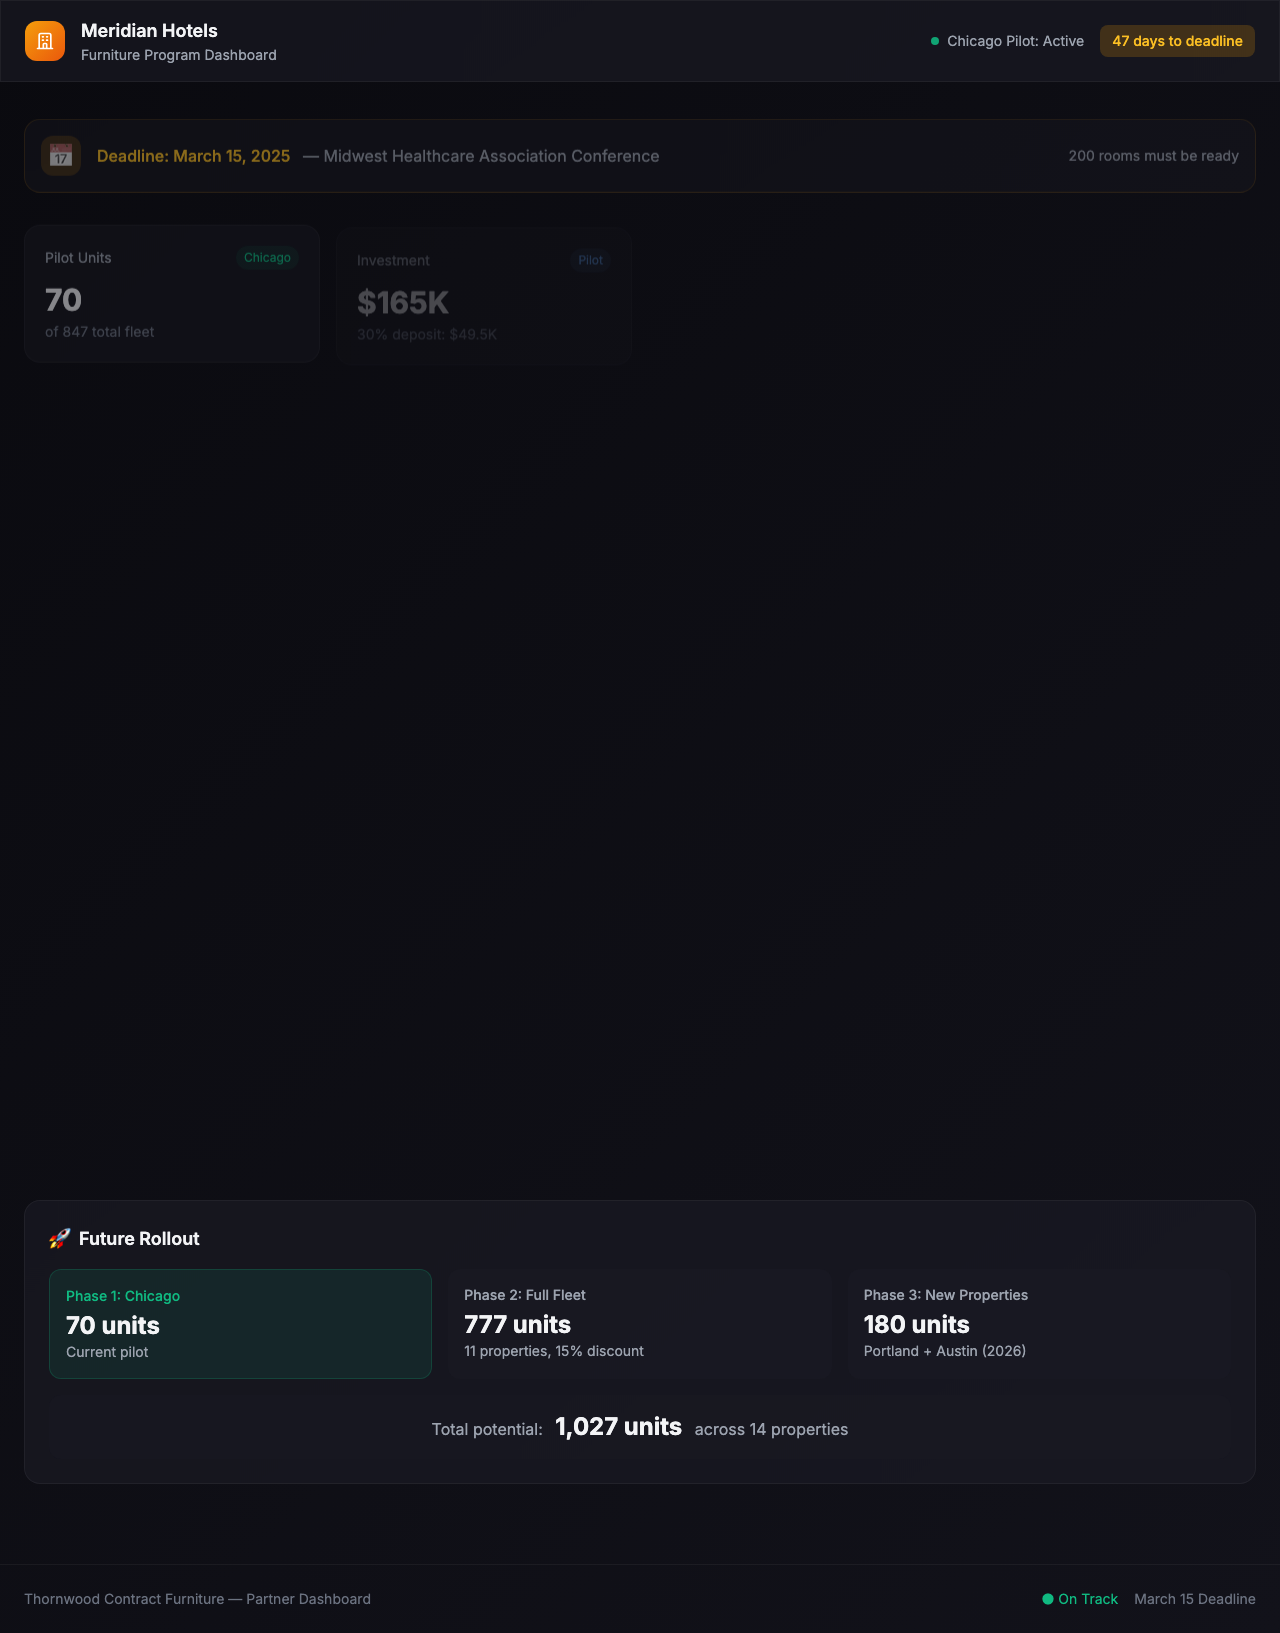
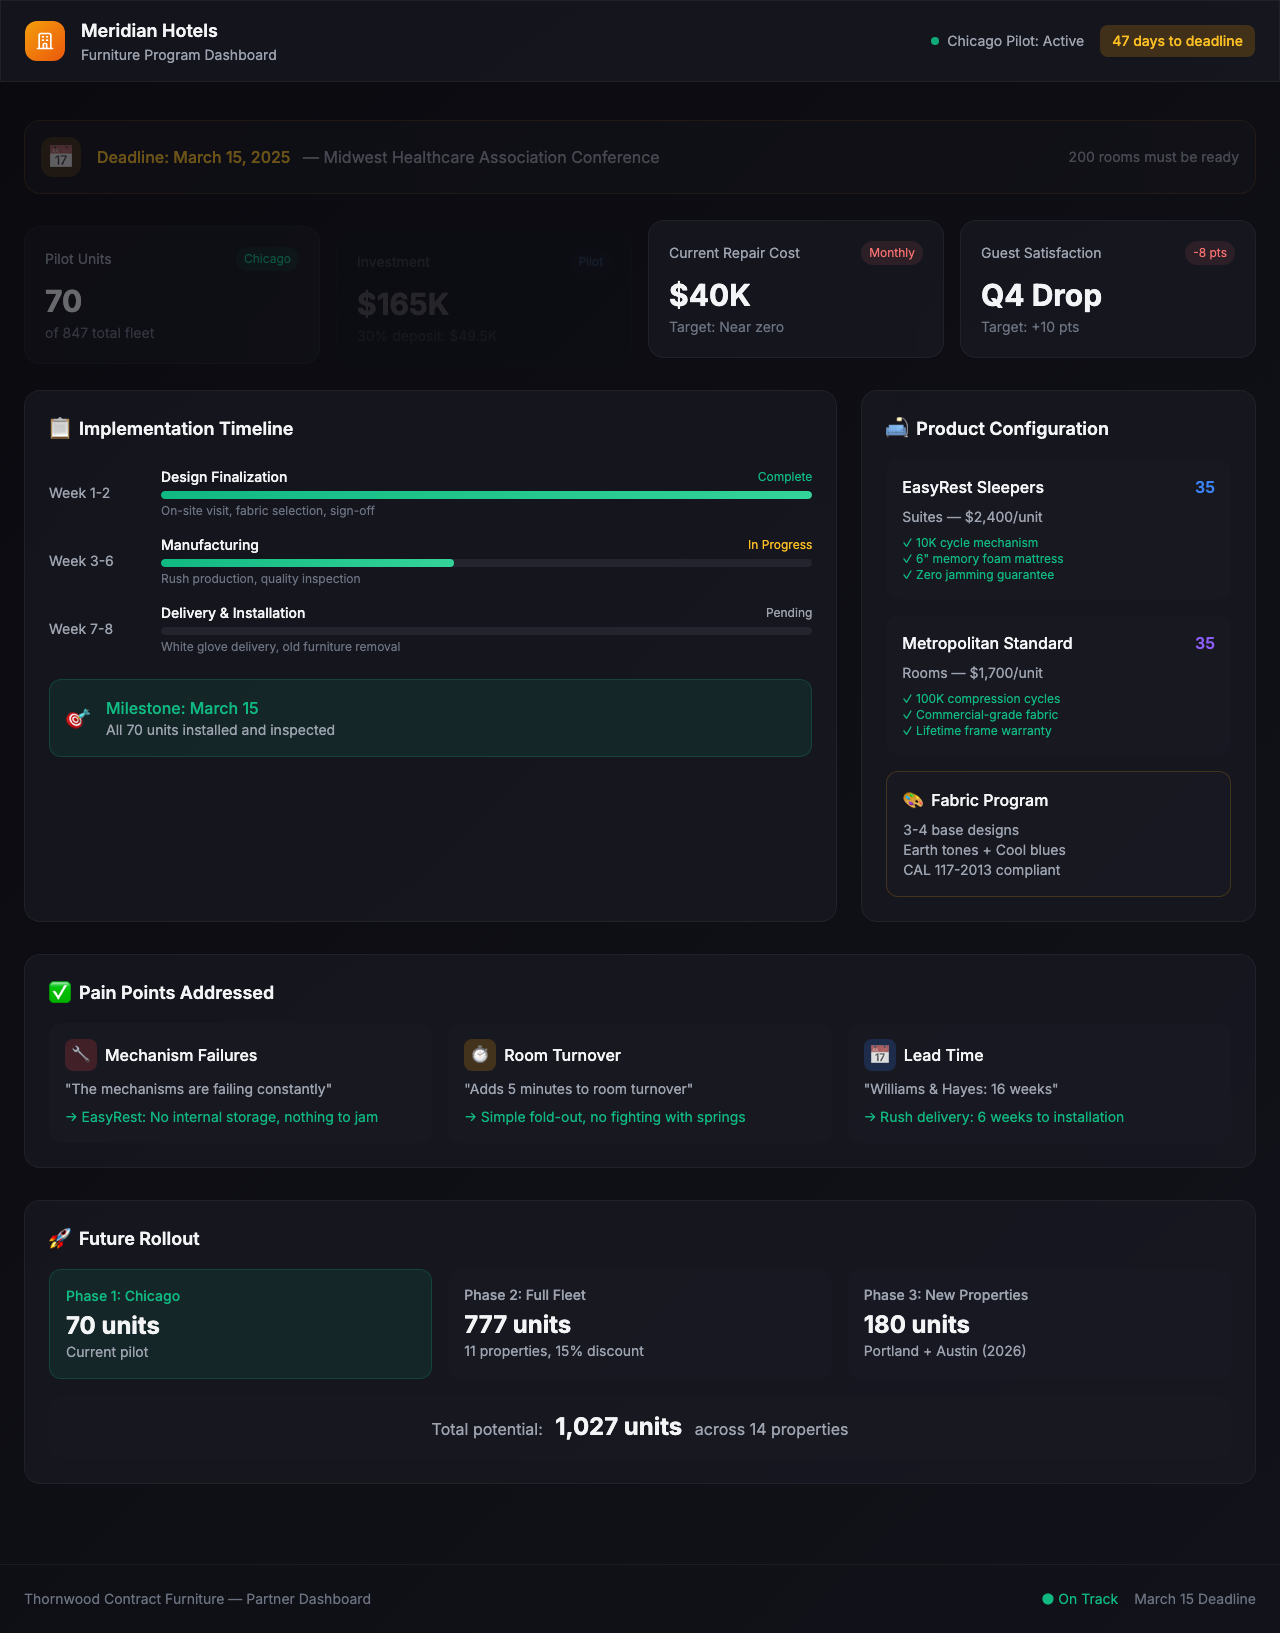
Fix prototype: remove opacity-0 that prevented content from showing in screenshots

diff --git a/examples/prototype.html b/examples/prototype.html
@@ -105,7 +105,7 @@
     <main class="max-w-7xl mx-auto px-6 py-8">
 
         <!-- Alert Banner -->
-        <div class="glass rounded-2xl p-4 mb-8 border border-amber-500/20 flex items-center gap-4 animate-fade-in opacity-0">
+        <div class="glass rounded-2xl p-4 mb-8 border border-amber-500/20 flex items-center gap-4 animate-fade-in">
             <div class="w-10 h-10 rounded-xl bg-amber-500/20 flex items-center justify-center flex-shrink-0">
                 <span class="text-xl">📅</span>
             </div>
@@ -118,7 +118,7 @@
 
         <!-- Metrics Row -->
         <div class="grid grid-cols-4 gap-4 mb-8">
-            <div class="glass rounded-2xl p-5 animate-fade-in opacity-0">
+            <div class="glass rounded-2xl p-5 animate-fade-in">
                 <div class="flex items-center justify-between mb-3">
                     <span class="text-gray-400 text-sm">Pilot Units</span>
                     <span class="text-xs text-accent-green bg-accent-green/10 px-2 py-1 rounded-full">Chicago</span>
@@ -127,7 +127,7 @@
                 <div class="text-sm text-gray-500 mt-1">of 847 total fleet</div>
             </div>
 
-            <div class="glass rounded-2xl p-5 animate-fade-in opacity-0 delay-1">
+            <div class="glass rounded-2xl p-5 animate-fade-in delay-1">
                 <div class="flex items-center justify-between mb-3">
                     <span class="text-gray-400 text-sm">Investment</span>
                     <span class="text-xs text-blue-400 bg-blue-400/10 px-2 py-1 rounded-full">Pilot</span>
@@ -136,7 +136,7 @@
                 <div class="text-sm text-gray-500 mt-1">30% deposit: $49.5K</div>
             </div>
 
-            <div class="glass rounded-2xl p-5 animate-fade-in opacity-0 delay-2">
+            <div class="glass rounded-2xl p-5 animate-fade-in delay-2">
                 <div class="flex items-center justify-between mb-3">
                     <span class="text-gray-400 text-sm">Current Repair Cost</span>
                     <span class="text-xs text-red-400 bg-red-400/10 px-2 py-1 rounded-full">Monthly</span>
@@ -145,7 +145,7 @@
                 <div class="text-sm text-gray-500 mt-1">Target: Near zero</div>
             </div>
 
-            <div class="glass rounded-2xl p-5 animate-fade-in opacity-0 delay-3">
+            <div class="glass rounded-2xl p-5 animate-fade-in delay-3">
                 <div class="flex items-center justify-between mb-3">
                     <span class="text-gray-400 text-sm">Guest Satisfaction</span>
                     <span class="text-xs text-red-400 bg-red-400/10 px-2 py-1 rounded-full">-8 pts</span>
@@ -159,7 +159,7 @@
         <div class="grid grid-cols-3 gap-6 mb-8">
 
             <!-- Timeline -->
-            <div class="col-span-2 glass rounded-2xl p-6 animate-fade-in opacity-0 delay-2">
+            <div class="col-span-2 glass rounded-2xl p-6 animate-fade-in delay-2">
                 <h3 class="text-lg font-semibold mb-6 flex items-center gap-2">
                     <span class="text-xl">📋</span> Implementation Timeline
                 </h3>
@@ -222,7 +222,7 @@
             </div>
 
             <!-- Product Mix -->
-            <div class="glass rounded-2xl p-6 animate-fade-in opacity-0 delay-3">
+            <div class="glass rounded-2xl p-6 animate-fade-in delay-3">
                 <h3 class="text-lg font-semibold mb-4 flex items-center gap-2">
                     <span class="text-xl">🛋</span> Product Configuration
                 </h3>
@@ -270,7 +270,7 @@
         </div>
 
         <!-- Pain Resolution -->
-        <div class="glass rounded-2xl p-6 mb-8 animate-fade-in opacity-0 delay-4">
+        <div class="glass rounded-2xl p-6 mb-8 animate-fade-in delay-4">
             <h3 class="text-lg font-semibold mb-4 flex items-center gap-2">
                 <span class="text-xl">✅</span> Pain Points Addressed
             </h3>
